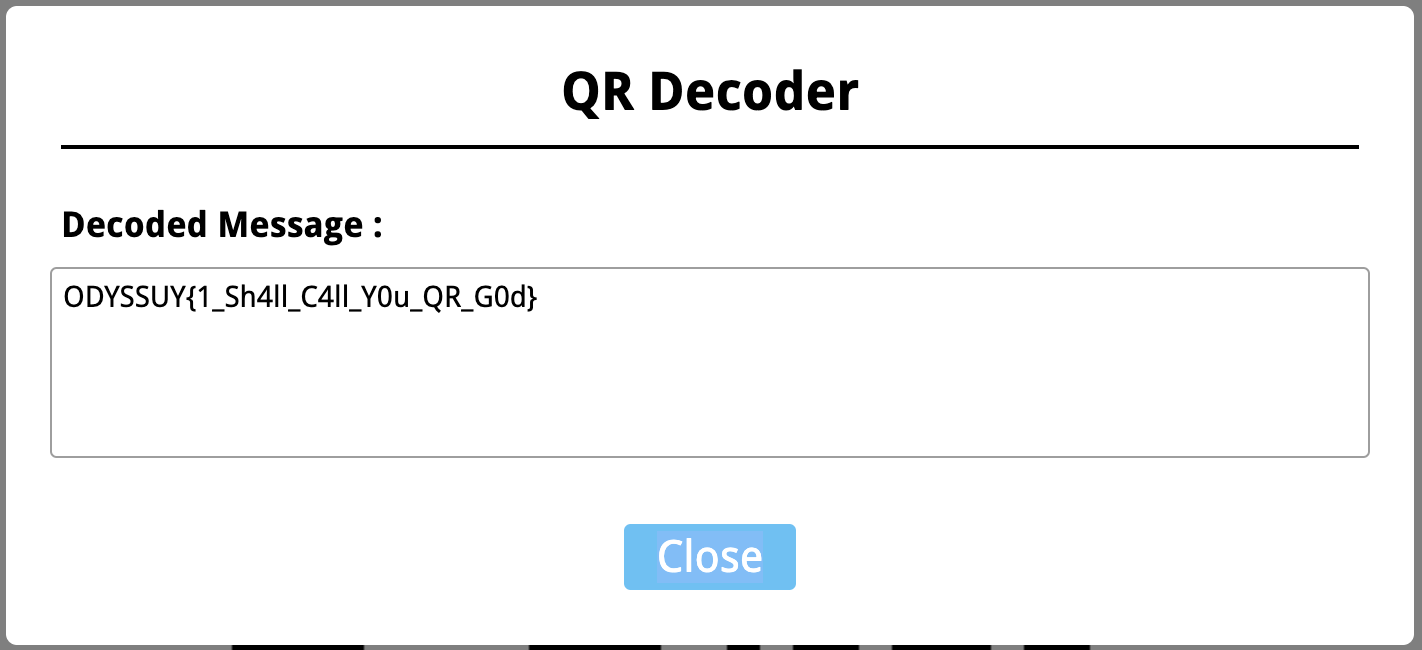
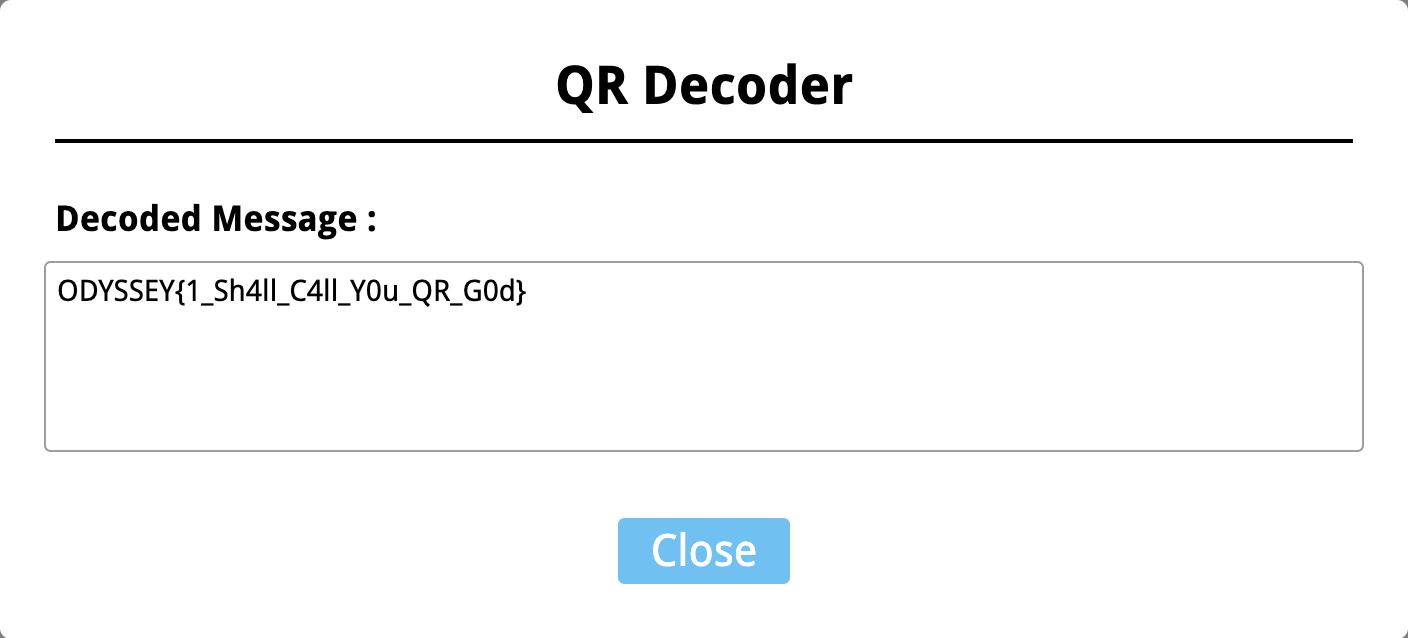
updated writeup

Changed region(s): [[0.0, 0.0, 1.0, 1.0], [0.375, 0.0893, 0.625, 0.1787], [0.4375, 0.8041, 0.5625, 0.9232]]

diff --git a/Misc/QRupted Code/README.md b/Misc/QRupted Code/README.md
@@ -36,8 +36,6 @@ We decode the QR Code and obtain the flag:
 
 ![](img/flag.png)
 
-The flag is still corrupted because we didn't correct the missing modules after adjusting the placement of the alignment block. Luckily, the corruption occurs in the flag format section, so we can simply change it and submit the flag.
-
 ## Flag:
 ```
 ODYSSEY{1_Sh4ll_C4ll_Y0u_QR_G0d}
